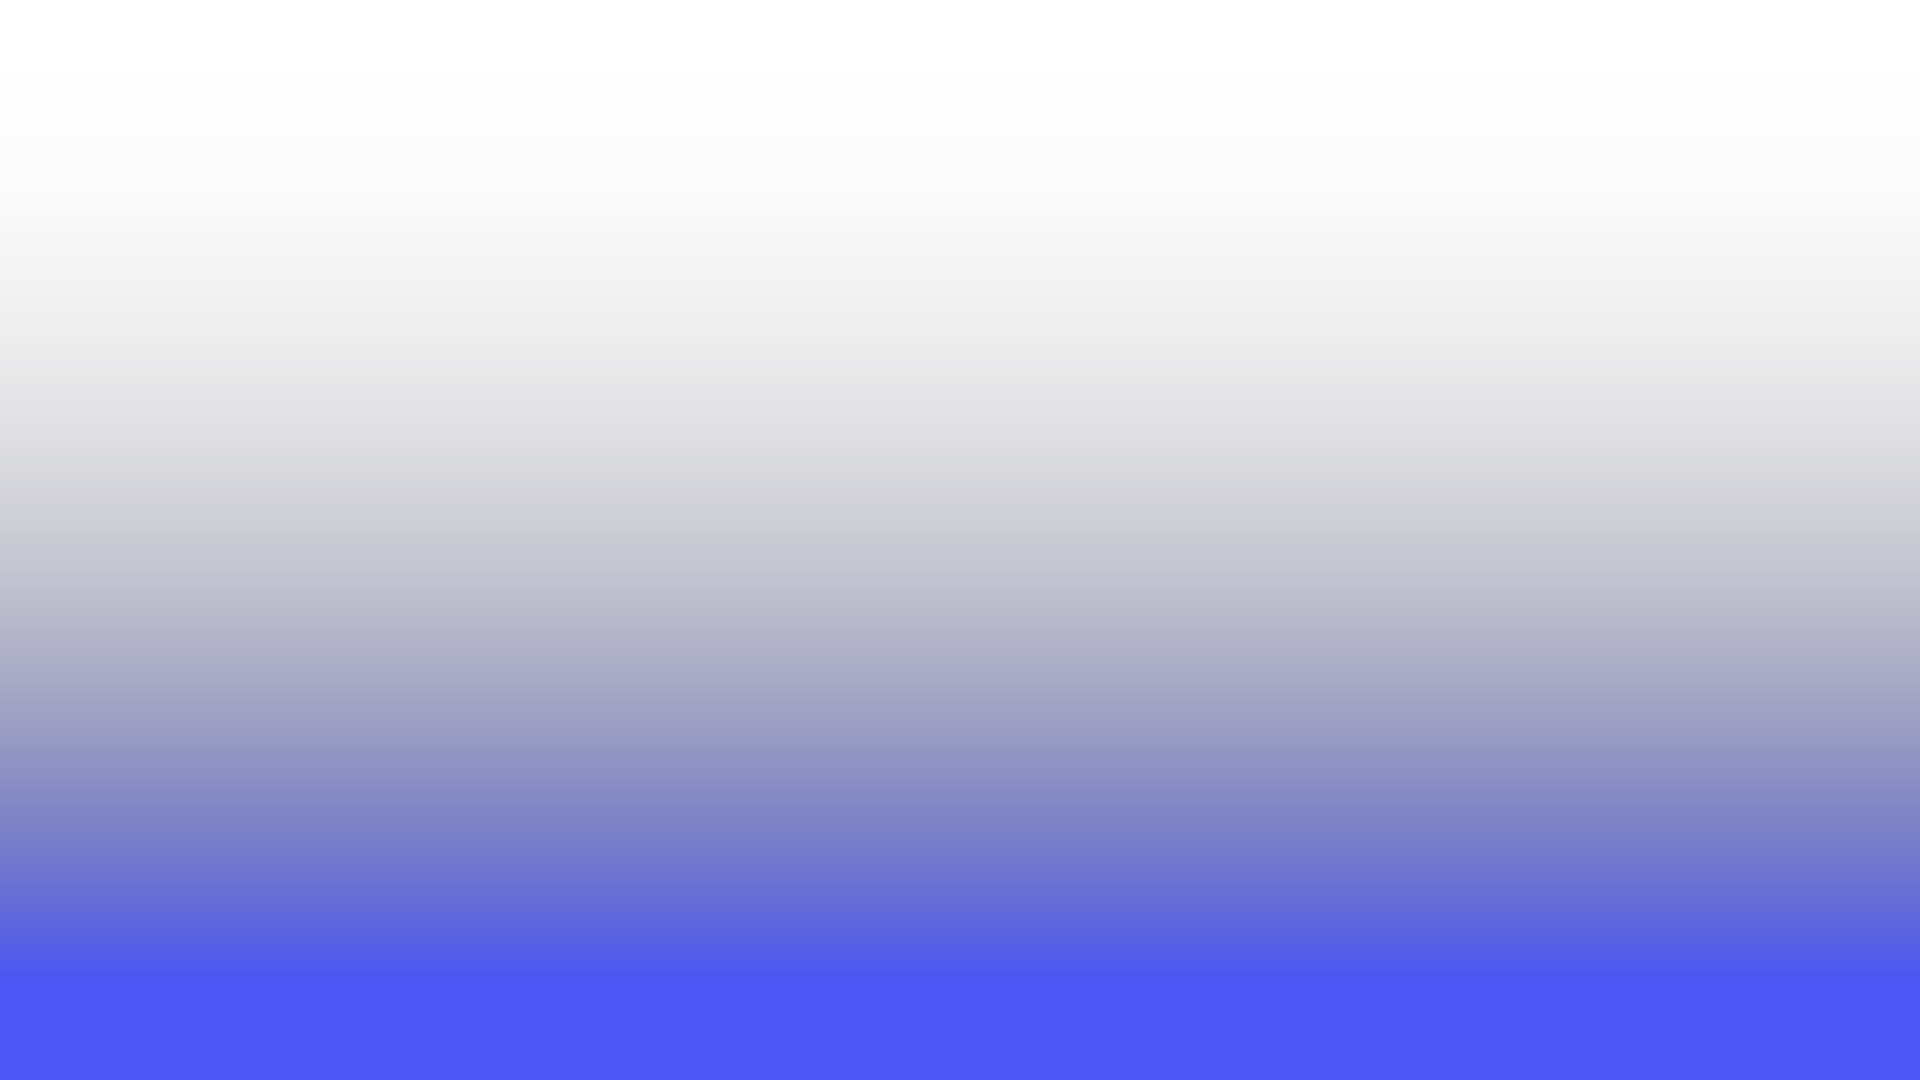
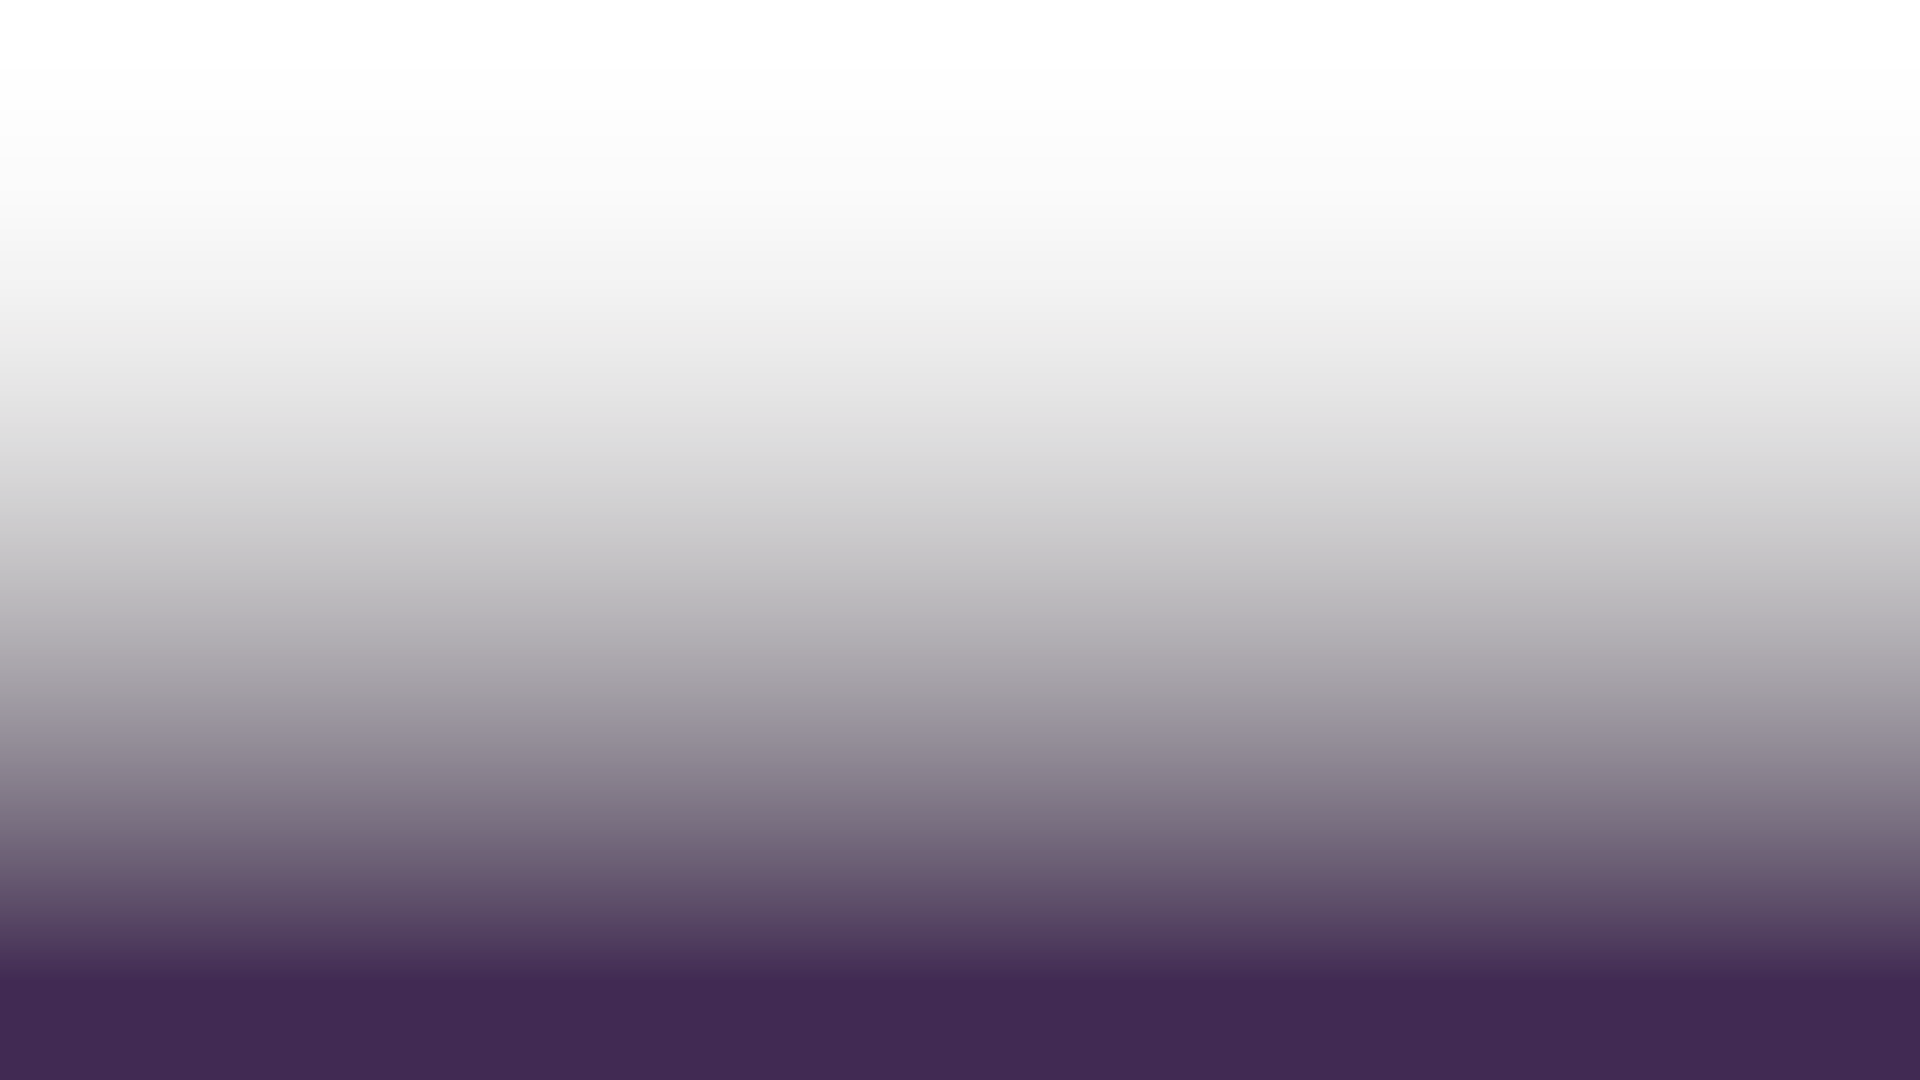
More files..

diff --git a/Game/js/map.js b/Game/js/map.js
@@ -25,6 +25,7 @@ export class Map {
             new Layer("space", 1, new Vec2(1920, 1080)),
             new Layer("stars", 0.995, new Vec2(1920, 1080)),
             new Layer("stst", 0.9, new Vec2(8700, 2000), new Vec2(0, 1000)),
+            new Layer("sky", 0.9, new Vec2(1600, 1200), new Vec2(0, 2990)),
         ];
 
         this.tileset = {
@@ -70,11 +71,13 @@ export class Map {
     }
     drawBackground(c) {
         for (var layer of this.layers) {
-            c.drawImage(layer.img, this.position.x * layer.k + layer.drawOffset.x, this.position.y * layer.k + layer.drawOffset.y, layer.size.x, layer.size.y);
-
-            if (layer.id === "stars") {
+            if (layer.id == "stars") {
+                c.drawImage(layer.img, this.position.x * layer.k + layer.drawOffset.x, this.position.y * layer.k + layer.drawOffset.y, layer.size.x, layer.size.y);
                 c.drawImage(layer.img, this.position.x * layer.k + layer.drawOffset.x + layer.size.x, this.position.y * layer.k + layer.drawOffset.y, layer.size.x, layer.size.y);
+                continue;
             }
+
+            c.drawImage(layer.img, this.position.x * layer.k + layer.drawOffset.x, this.position.y * layer.k + layer.drawOffset.y, layer.size.x, layer.size.y);
         }
     }
     drawPlatforms(c) {

diff --git a/Game/html/game.html b/Game/html/game.html
@@ -53,6 +53,7 @@
 		<img id="space" class="game-resource" src="../resources/game/backgrounds/space4.png">
 		<img id="stars" class="game-resource" src="../resources/game/backgrounds/stars.png">
 		<img id="stst" class="game-resource" src="../resources/game/backgrounds/space_to_sky_transition.png">
+		<img id="sky" class="game-resource" src="../resources/game/backgrounds/moonless_sky.png">
 		
 		<script type="module" src="../js/game.js"></script>
 	</body>
